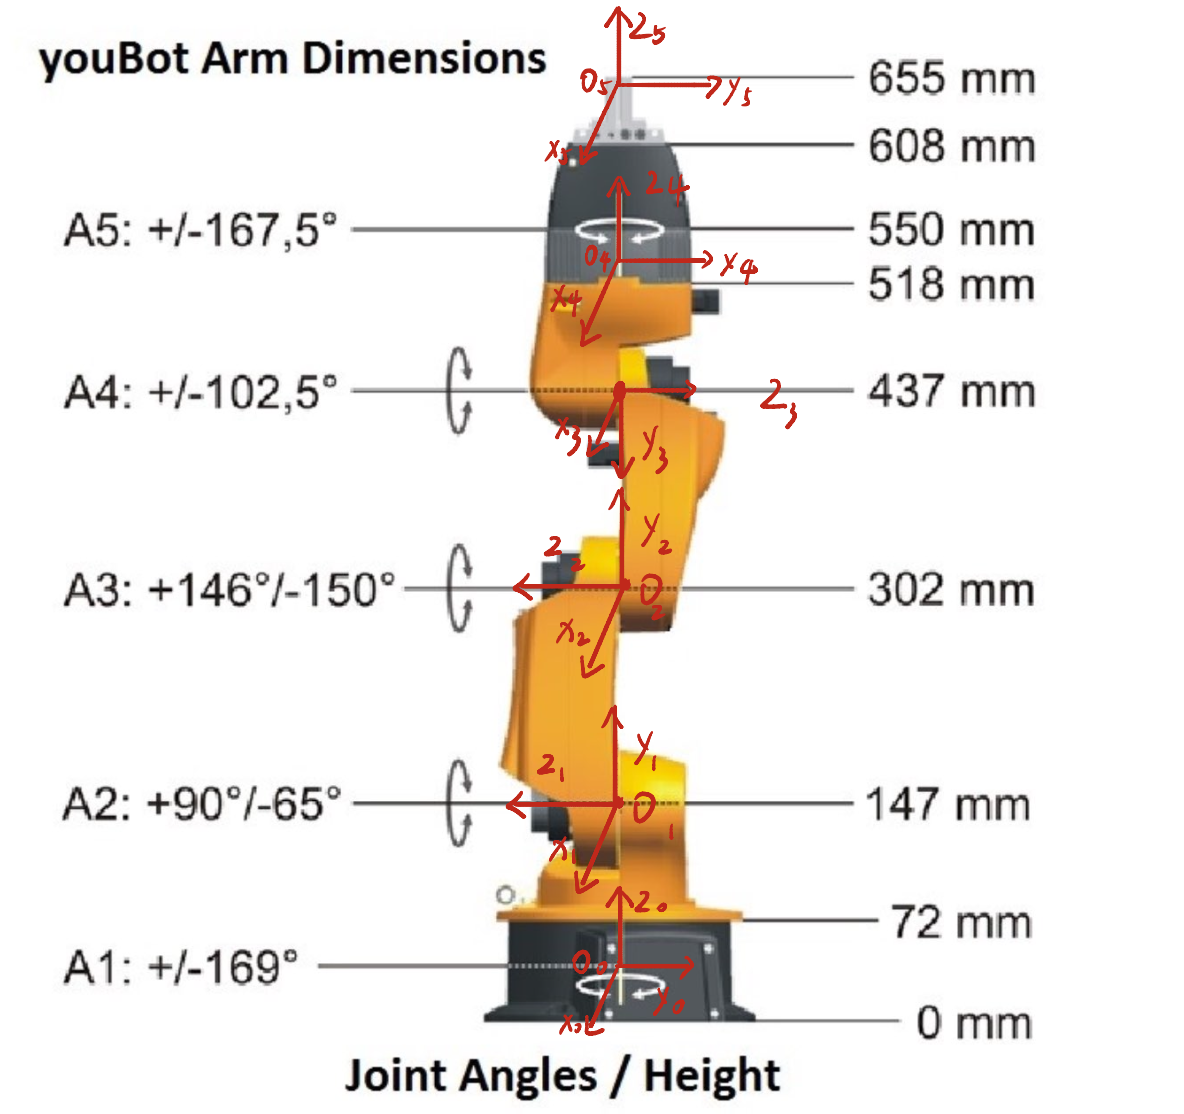
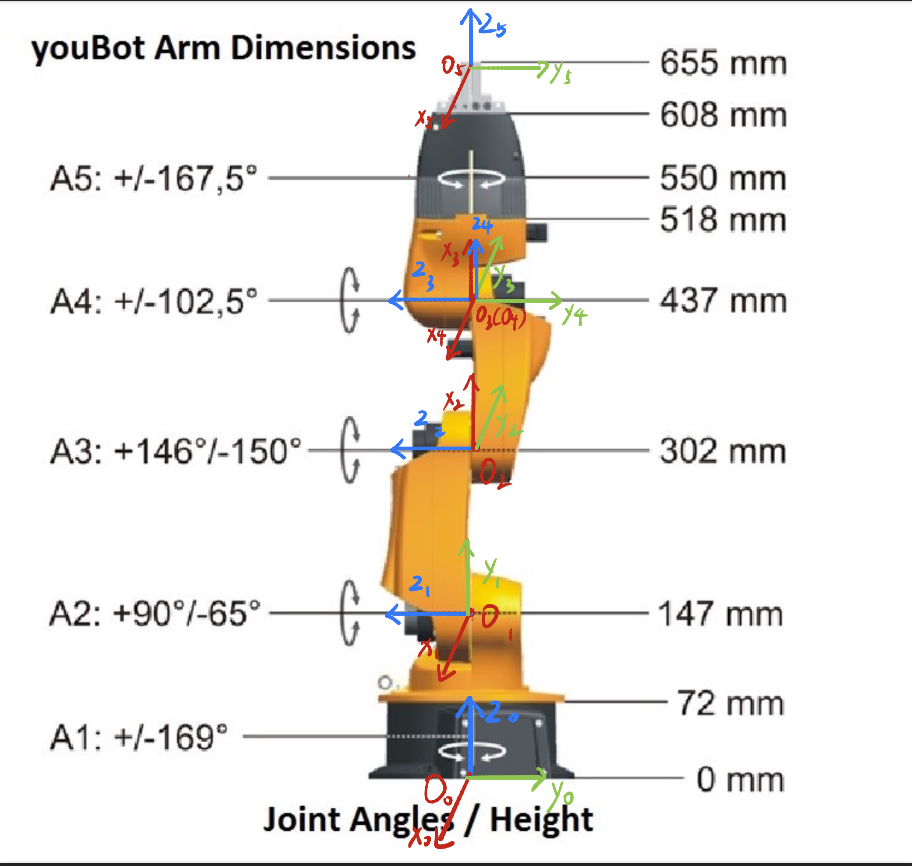
cw1q5b finish

Changed region(s): [[0.0, 0.0, 1.0, 1.0], [0.0614, 0.1871, 0.307, 0.2182]]

diff --git a/cw1q5/cw1q5/cw1q5b_node.py b/cw1q5/cw1q5/cw1q5b_node.py
@@ -141,13 +141,10 @@ class ForwardKinematicsNode(Node):
         # ╔════════════════════════════════════════════════════════════════════════╗
         # ║                  PART 4: COMPLETE THE ROS 2 WRAPPER                  ║
         # ╚════════════════════════════════════════════════════════════════════════╝
-        # 获取关节角数据
         joints = list(joint_msg.position)
 
-        # 计算末端变换矩阵
         T = forward_kinematics(youbot_dh_parameters, joints)
 
-        # 提取平移与旋转部分
         R = T[:3, :3]
         q = rotmat2q(R)
 

diff --git a/cw.md b/cw.md
@@ -477,7 +477,8 @@ DH Coordinate Frame Setup:
 
 1. The base frame 0 is placed on the robot’s base, with the $z_0$-axis pointing vertically upward along the rotation axis of the first joint (A1).
 2. For each joint $i$, define the $z_i$-axis along the joint’s axis of rotation.
-3. The $x_i$-axis is defined as the common normal direction—that is, the shortest line connecting $z_i$ and $z_{i+1}$, pointing from $z_i$ toward $z_{i+1}$.
+3. The $x_i$-axis is defined as the common normal direction—that is, the shortest line connecting $z_{i-1}$ and $z_i$, pointing from $z_{i-1}$ toward $z_i$. *Note:* For this youBot arm picture, frames 3 and 4 **share the same origin** since their joint axes intersect at one point.
+
 4. The $y_i$-axis is determined by the right-hand rule, ensuring that ($x_i$, $y_i$, $z_i$) form a right-handed coordinate system.
 5. In each coordinate frame, record the link length ($a_i$), link twist ($α_i$), link offset ($d_i$), and joint angle ($\theta_i$) between adjacent joints to obtain the complete DH parameter table.
 
@@ -487,13 +488,129 @@ DH Coordinate Frame Setup:
 
 | Joint (i) | θᵢ *(Joint Angle)* | dᵢ *(mm)* | aᵢ *(mm)* | αᵢ *(rad)* 
 |:---------:|:------------------:|:---------:|:---------:|:------------:
-| 1         | $\theta_1$         | 0         | 75        | $+\pi/2$ 
-| 2         | $\theta_2$         | 0         | 155       | 0 
-| 3         | $\theta_3$         | 0         | 135       | $-\pi$ 
-| 4         | $\theta_4$         | 0         | 113       | $+\pi/2$ 
-| 5         | $\theta_5$         | MF        | 58        | 0 
+| 1         | $\theta_1$         | 147       | 0         | $+\pi/2$ 
+| 2         | $\theta_2 + \pi/2$ | 0         | 155       | 0 
+| 3         | $\theta_3$         | 0         | 135       | 0 
+| 4         | $\theta_4-\pi/2$   | 0         | 0         | $-\pi/2$ 
+| 5         | $\theta_5$         | 218       | 0         | 0 
+
 ## b
 ![q5b](pic/q5_b.png)
+### Task 1: Define the DH Table Based on Question 5a
+```python
+youbot_dh_parameters = {
+  'a':[0, 0.155, 0.135, 0, 0],
+  'alpha':[np.pi/2, 0, 0, -np.pi/2, 0],
+  'd' : [0.147, 0, 0, 0, 0.218],
+  'theta':[0, np.pi/2, 0, -np.pi/2, 0]
+  }
+``` 
+The DH parameters obtained in Question 5a were filled into the dictionary above, representing the link lengths, twists, offsets, and joint angles of the YouBot manipulator.
+### Task 2: Implementing the Standard DH Transformation
+According to the standard DH formulation,
+$$
+{}^{i-1}T_i =
+\begin{bmatrix}
+\cos\theta_i & -\sin\theta_i\cos\alpha_i & \sin\theta_i\sin\alpha_i & a_i\cos\theta_i &\\
+ \sin\theta_i & \cos\theta_i\cos\alpha_i & -\cos\theta_i\sin\alpha_i & a_i\sin\theta_i \\
+0 & \sin\alpha_i & \cos\alpha_i & d_i \\
+0 & 0 & 0 & 1
+\end{bmatrix}
+$$
+where:
+- $a_i$: link length
+- $\alpha_i$: link twist
+- $d_i$: link offset 
+- $\theta_i$: joint angle
+
+Therefore, the equation is
+```python
+    A = np.array([
+      [np.cos(theta), -np.sin(theta)*np.cos(alpha), np.sin(theta)*np.sin(alpha), a*np.cos(theta)],
+      [np.sin(theta), np.cos(theta)*np.cos(alpha), -np.cos(theta)*np.sin(alpha), a*np.sin(theta)],
+      [0.0, np.sin(alpha), np.cos(alpha),d],
+      [0.0, 0.0, 0.0, 1.0 ]
+      ])
+```
+### Task 3: Implementing the Forward Kinematics Calculation
+Based on the forward kinematics principle, the overall transformation from the base frame to the end-effector frame is obtained by multiplying the individual joint transformation matrices:
+$$
+{}^0T_n = {}^0T_1 \cdot {}^1T_2 \cdot {}^2T_3 \cdot \ldots \cdot {}^{n-1}T_n
+$$
+or equivalently,
+$$
+T = \prod_{i=1}^{n} {}^{i-1}T_i
+$$
+The implementation in code is:
+```python
+for i in range(up_to_joint):
+  a = dh_dict['a'][i]
+  alpha = dh_dict['alpha'][i]
+  d = dh_dict['d'][i]
+  theta = dh_dict['theta'][i] + joints_readings[i]
+
+  T_i = standard_dh(a, alpha, d, theta)
+  T = np.dot(T, T_i)
+```
+### Task 4: Implementing the fkine_wrapper() Function
+This function serves as the ROS 2 subscriber callback, connecting the mathematical forward-kinematics computation with the ROS communication system.
+It listens to the topic `/joint_states`, extracts the joint angle values, computes the end-effector pose using the previously defined `forward_kinematics()` function, converts the rotation matrix to a quaternion, and publishes the result as a TF transform.
+
+The callback performs the following steps:
+```
+  joints = list(joint_msg.position)
+
+  T = forward_kinematics(youbot_dh_parameters, joints)
+
+  R = T[:3, :3]
+  q = rotmat2q(R)
+
+  t = TransformStamped()
+  t.header.stamp = self.get_clock().now().to_msg()
+  t.header.frame_id = 'base_link'
+  t.child_frame_id = 'end_effector'
+
+  t.transform.translation.x = float(T[0, 3])
+  t.transform.translation.y = float(T[1, 3])
+  t.transform.translation.z = float(T[2, 3])
+  t.transform.rotation = q
+
+  self.br.sendTransform(t)
+  self.get_logger().info(f"End-effector pose: x={T[0,3]:.3f}, y={T[1,3]:.3f}, z={T[2,3]:.3f}")
+```
+### Task 5: Node Initialization and ROS 2 Integration
+
+The purpose of this task is to integrate the forward kinematics algorithm within the ROS 2 framework, allowing the node to receive live joint states and compute the corresponding end-effector pose in real time.
+Since the `ForwardKinematicsNode` class was already defined in the source code, it can be executed directly using the following commands:
+
+```bash
+colcon build
+source install/setup.bash
+ros2 run cw1q5 cw1q5b_node
+```
+To test the node, publish a sample joint state message:
+```bash
+source install/setup.bash
+rostopic pub /joint_states sensor_msgs/msg/JointState "{name: ['joint1','joint2','joint3','joint4','joint5'], position: [0.0, 0.0, 0.0, 0.0, 0.0]}"
+```
+Then launch RViz for visualization:
+```
+source install/setup.bash
+rviz2
+```
+In RViz, set the Fixed Frame to base_link and enable TF display.
+When all joint angles are zero, all coordinate frames appear stacked along the z-axis, confirming the correctness of the forward kinematics computation.
+
+![q5b](pic/q5b.jpg)
+
+### Summary
+
+This task successfully integrates the forward kinematics computation with the ROS 2 environment.
+The node subscribes to /joint_states, computes transformations, and publishes them as TF frames.
+RViz visualization confirms that the implementation is correct and functions as expected.
+
+
+
 ## c
 ![q5c](pic/q5_c.png)
 ## d
